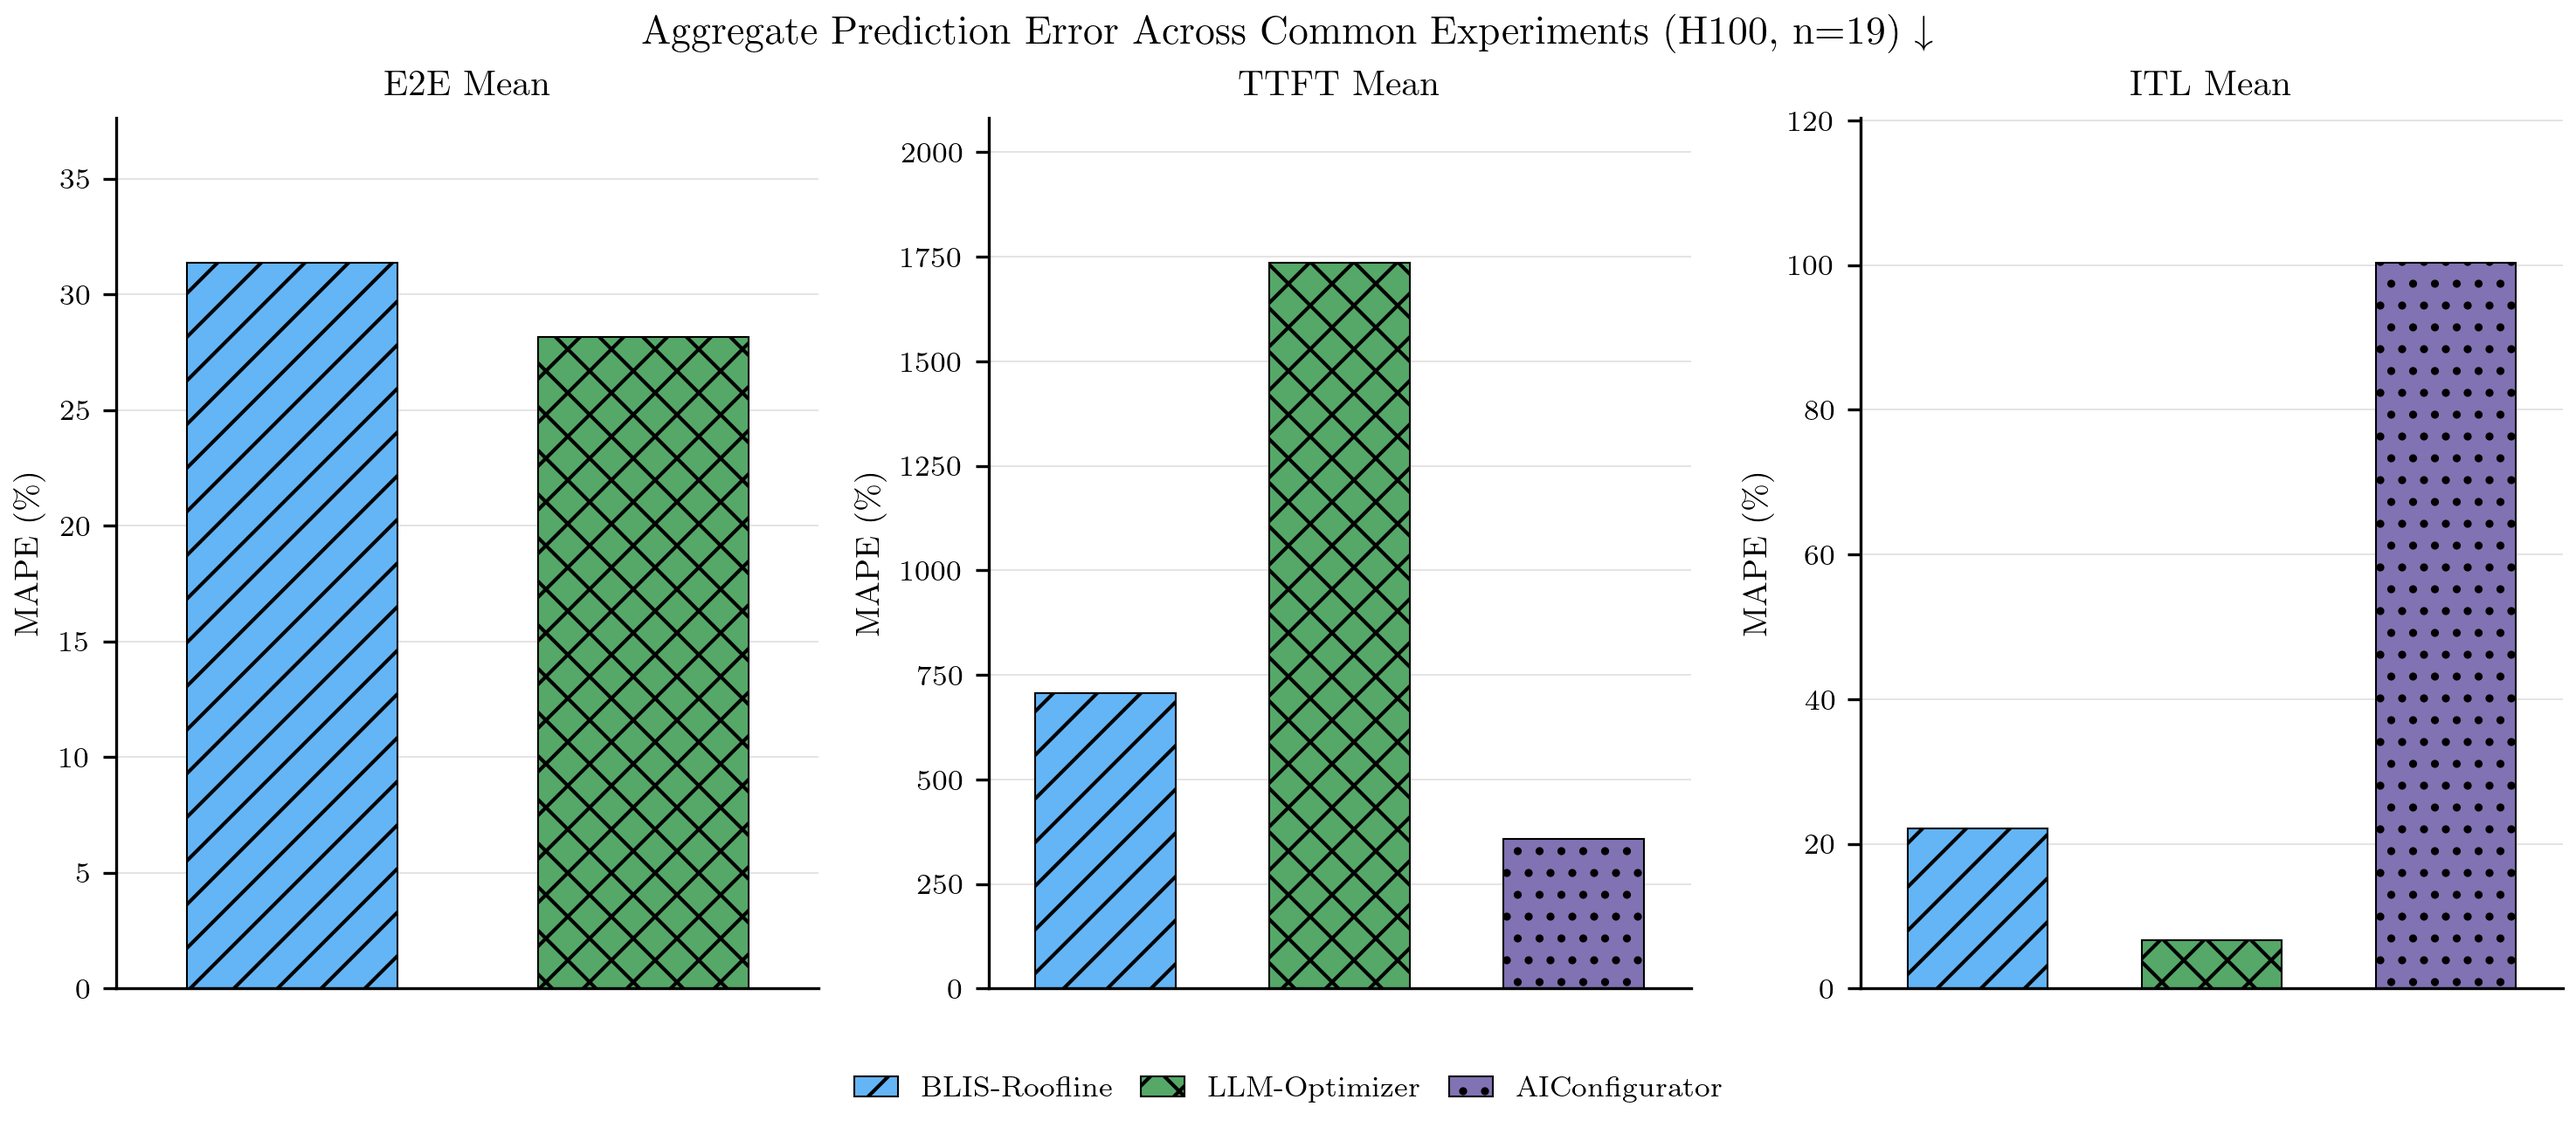
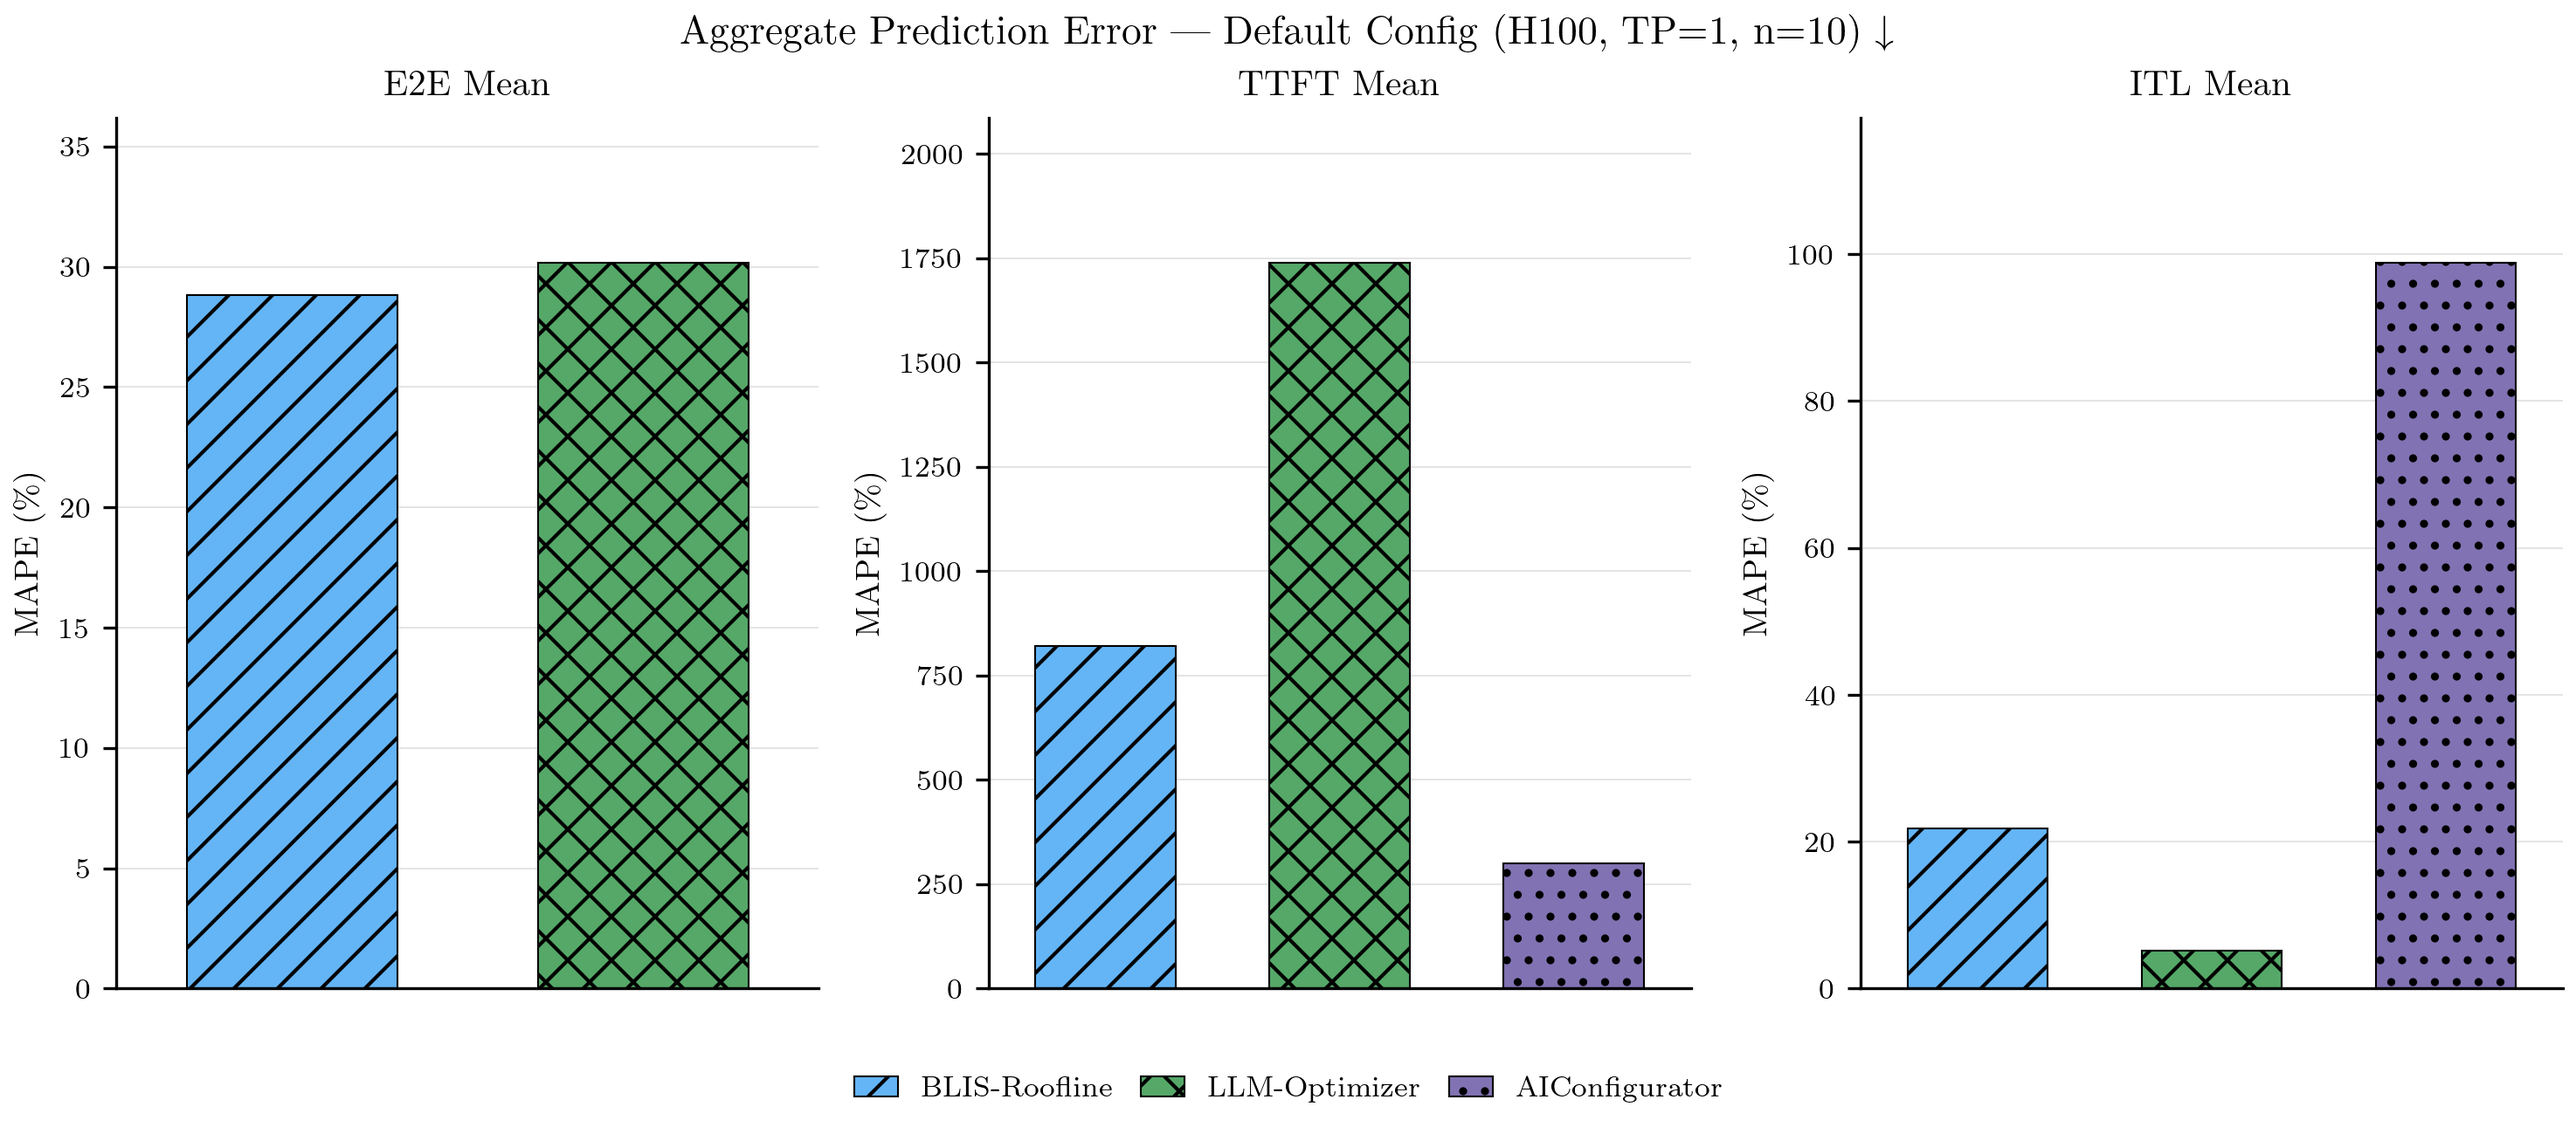
fix: filter Figure 0 to default configs only (n=10)
Changed Figure 0 to only include experiments with default vLLM serving
configuration where analytical simulators' baseline assumptions match
the ground truth:

Filter criteria (all must match):
- TP = 1 (passed to simulators)
- cpu_offload = False (matches simulator GPU-only baseline)
- gpu_mem_util = 0.90 (matches simulator baseline assumptions)

Excluded experiments (n=6) where simulators are blind to variation:
- 5 experiments with cpu_offload=True
- 1 experiment with gpu_mem_util=0.95

Changes:
- 19 experiments → 10 experiments
- 4 models → 2 models (Llama-3.1-8B, Qwen3-14B)
- Still covers 5 workload types
- Updated title: "Aggregate Prediction Error — Default Config (H100, TP=1, n=10)"
- Updated caption to explain default config criteria

This ensures aggregate comparison only includes configurations where
LLM-Optimizer and AIConfigurator can actually model the parameters.

Results with default configs (n=10):
- E2E: BLIS 28.8%, LLM-Optimizer 30.2%
- TTFT: AIConfigurator 301%, BLIS 821%, LLM-Optimizer 1738%
- ITL: LLM-Optimizer 5.2%, BLIS 21.8%, AIConfigurator 98.8%

diff --git a/experiment/figures.py b/experiment/figures.py
@@ -439,6 +439,21 @@ def plot_aggregate_comparison(
 
     df_filtered = df[df["experiment_folder"].isin(common_exps)]
 
+    # Filter to default configs only (TP=1, no CPU offload, 0.90 GPU memory)
+    # These are the only configs where analytical simulators' baseline assumptions
+    # match the ground truth configuration
+    df_filtered = df_filtered[
+        (df_filtered["tp"] == 1) &
+        (df_filtered["cpu_offload"] == False) &
+        (df_filtered["gpu_mem_util"] == 0.90)
+    ]
+
+    if df_filtered.empty:
+        warnings.warn("Figure 0: no experiments with default configs")
+        return None
+
+    common_exps = df_filtered["experiment_folder"].unique()
+
     # Prepare data for each metric
     metrics_data = []
 
@@ -518,7 +533,7 @@ def plot_aggregate_comparison(
         ax.set_title(metric_label, fontsize=10, fontweight="bold")
 
     fig.suptitle(
-        f"Aggregate Prediction Error Across Common Experiments (H100, n={len(common_exps)}) ↓",
+        f"Aggregate Prediction Error — Default Config (H100, TP=1, n={len(common_exps)}) ↓",
         fontsize=11, fontweight="bold"
     )
 

diff --git a/results/figure_captions.md b/results/figure_captions.md
@@ -16,11 +16,11 @@
 
 ---
 
-### Figure 0: Aggregate Comparison Across Common Experiments
+### Figure 0: Aggregate Comparison — Default Config
 
 ![Figure 0](figures/fig0_aggregate_comparison.png)
 
-Median MAPE aggregated across 19 H100 experiments where BLIS-Roofline, LLM-Optimizer, and AIConfigurator all have data. Shows three metrics: E2E Mean (BLIS and LLM-Optimizer only, since AIConfigurator does not report E2E), TTFT Mean (all three simulators), and ITL Mean (all three simulators). Experiments span four dense models (Llama-3.1-8B, Qwen3-14B, CodeLlama-34B, Llama-2-70B) with FP16 precision and five workload types (general, general-lite, codegen, roleplay, reasoning). Serving configurations vary: tensor parallelism (1, 2, or 4), CPU KV cache offloading (5 experiments enable it), and GPU memory utilization (18 at 0.90, 1 at 0.95).
+Median MAPE aggregated across 10 H100 experiments where BLIS-Roofline, LLM-Optimizer, and AIConfigurator all have data, using default vLLM serving configuration (TP=1, no CPU KV cache offloading, 0.90 GPU memory utilization). Shows three metrics: E2E Mean (BLIS and LLM-Optimizer only, since AIConfigurator does not report E2E), TTFT Mean (all three simulators), and ITL Mean (all three simulators). Experiments span two dense models (Llama-3.1-8B, Qwen3-14B) with FP16 precision across five workload types (general, general-lite, codegen, roleplay, reasoning). Default configs ensure that analytical simulators' baseline assumptions (GPU-only inference, standard memory utilization) match the ground truth configuration.
 
 ---
 
